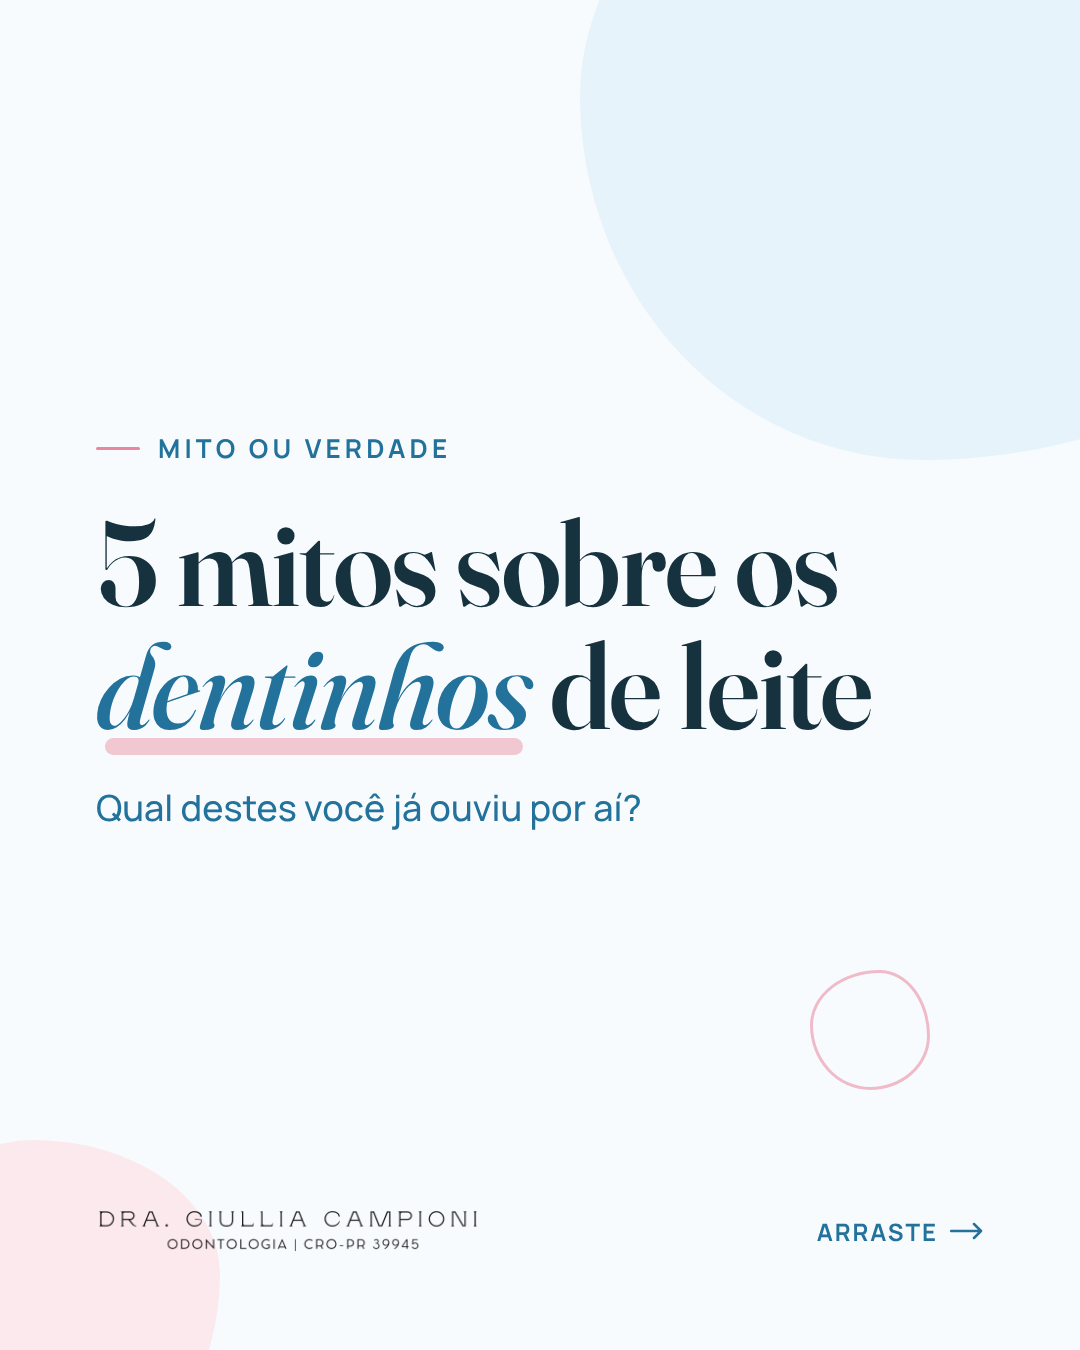
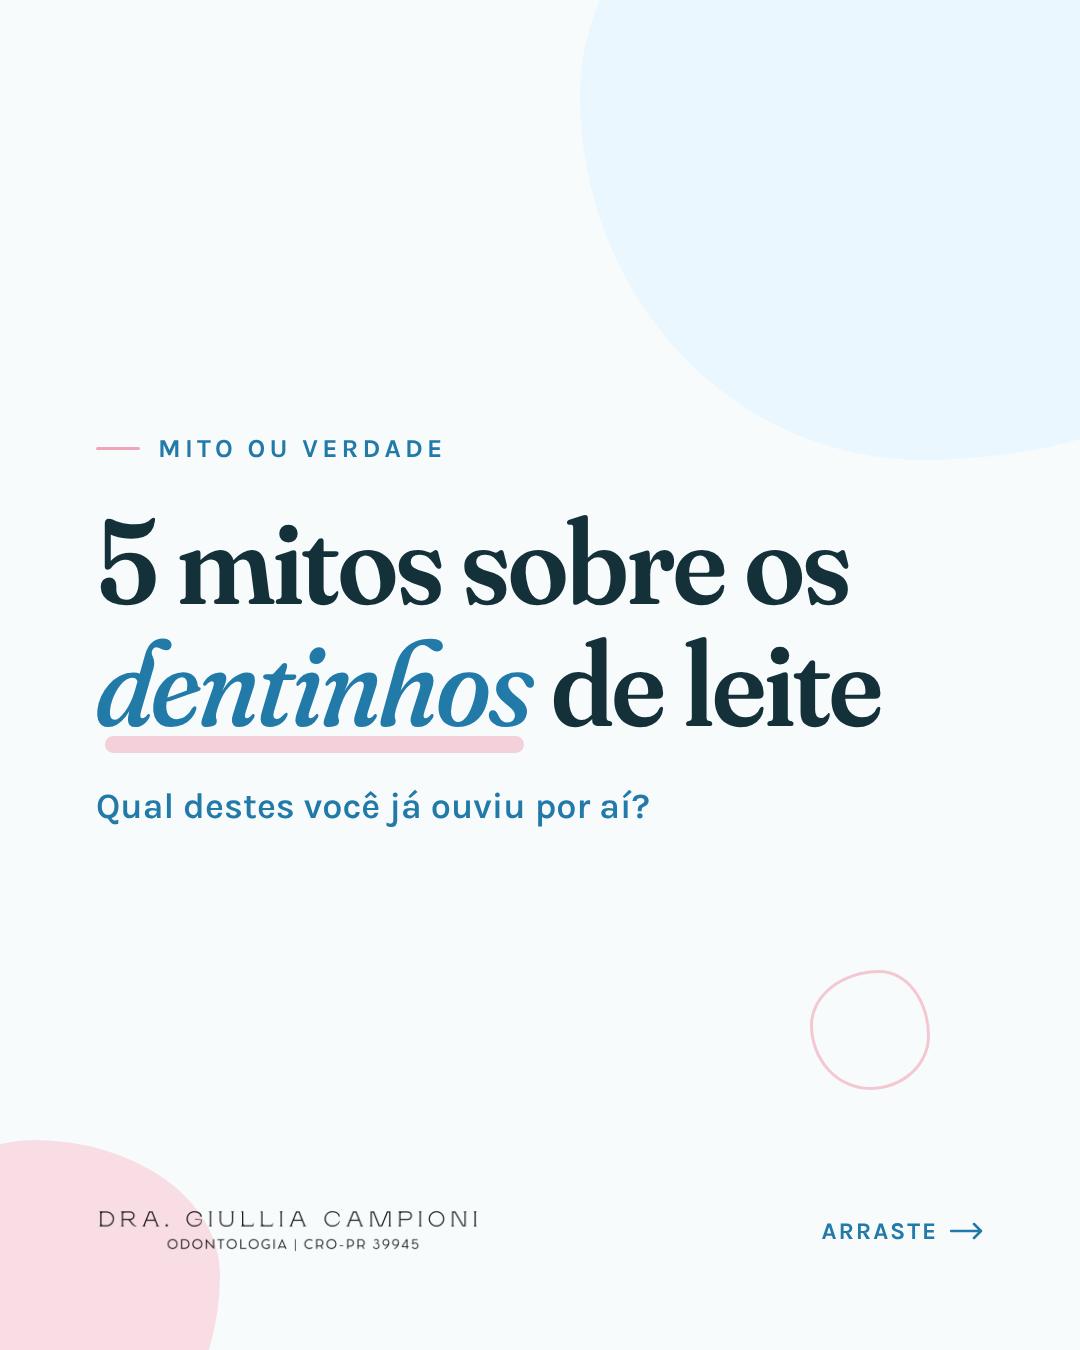
conteudo-dra-giullia: tokens reais do site, slides com foto e novo slide de mito
- Cores e fontes (Fraunces SOFT/WONK + Karla) copiadas do site da cliente
- Capa com foto sangrada e slide de texto com foto no topo (fotos do site)
- Slide de mito redesenhado como pergunta e resposta, sem selos
- Segundo carrossel de exemplo: como é a primeira consulta
- Links para a Ficha da Giullia (editável) e o Design System

Claude-Session: https://claude.ai/code/session_01RQxChRq7sBinPeM7u1aJuL

diff --git a/apps/conteudo-dra-giullia/templates/estilo.css b/apps/conteudo-dra-giullia/templates/estilo.css
@@ -1,17 +1,29 @@
-/* Identidade visual da Dra. Giullia Campioni. Fonte: marca/05-identidade-visual.md
+/* Identidade visual da Dra. Giullia Campioni.
+   Tokens copiados do site dragiucampioni.com.br (fonte da verdade). Ver marca/05-identidade-visual.md
    Cores e fontes mudam SÓ aqui. */
 :root{
-  --tinta:#16323F; --petroleo:#22729C; --ceu:#E7F3FA; --gelo:#F8FBFD;
-  --rosa:#E8879E; --rosa-claro:#FBE9EE;
-  --amarelo:#F7E3A1; --verde:#CFE6D3; --laranja:#F6C9A8; --lilas:#DCD3F0;
+  --tinta:#14313A;      /* site --ink */
+  --texto-cor:#284956;  /* site --text */
+  --suave:#4F6D79;      /* site --muted */
+  --petroleo:#227AA8;   /* site --teal-dark / CTA */
+  --azul:#3BAFE0;       /* site --teal */
+  --ceu:#EAF7FF;        /* site --mint */
+  --ceu-forte:#B8DFF5;  /* site --mint-strong */
+  --linha:#CBE8F7;      /* site --line */
+  --papel:#F8FBFC;      /* site --paper */
+  --rosa:#F0A6B8;       /* site --rose */
+  --rosa-claro:#F8DDE4; /* site --rose-soft */
+  --rosa-forte:#E77496;
+  --vinho:#8A3A55;
+  --mel:#FFD56E;        /* site --honey */
   --titulo:"Fraunces", Georgia, serif;
-  --texto:"Manrope", "Helvetica Neue", Arial, sans-serif;
+  --texto:"Karla", "Helvetica Neue", Arial, sans-serif;
   --pad:96px;
 }
 *{box-sizing:border-box;margin:0;padding:0}
-body{background:#ccc;font-family:var(--texto);color:var(--tinta)}
+body{background:#ccc;font-family:var(--texto);color:var(--texto-cor)}
 
-.slide{position:relative;width:1080px;height:1350px;overflow:hidden;background:var(--gelo);display:flex;flex-direction:column;padding:var(--pad)}
+.slide{position:relative;width:1080px;height:1350px;overflow:hidden;background:var(--papel);display:flex;flex-direction:column;padding:var(--pad)}
 .slide.stories{height:1920px;padding-top:250px;padding-bottom:250px}
 .slide + .slide{margin-top:40px}
 
@@ -19,7 +31,7 @@ body{background:#ccc;font-family:var(--texto);color:var(--tinta)}
 .blob{position:absolute;z-index:0;pointer-events:none}
 .b1{width:760px;height:700px;right:-260px;top:-240px;background:var(--ceu);border-radius:62% 38% 55% 45% / 48% 60% 40% 52%}
 .b2{width:340px;height:320px;left:-120px;bottom:-110px;background:var(--rosa-claro);border-radius:45% 55% 38% 62% / 55% 42% 58% 45%}
-.b3{width:120px;height:120px;right:150px;bottom:260px;border:3px solid var(--rosa);border-radius:58% 42% 50% 50% / 46% 55% 45% 54%;opacity:.55}
+.b3{width:120px;height:120px;right:150px;bottom:260px;border:3px solid var(--rosa);border-radius:58% 42% 50% 50% / 46% 55% 45% 54%;opacity:.6}
 .alt .b1{right:auto;left:-300px;top:auto;bottom:-300px}
 .alt .b2{left:auto;right:-110px;bottom:auto;top:-120px;background:var(--ceu)}
 .alt .b3{right:120px;bottom:auto;top:120px}
@@ -29,30 +41,53 @@ body{background:#ccc;font-family:var(--texto);color:var(--tinta)}
 .sobretitulo{display:flex;align-items:center;gap:18px;font-size:26px;font-weight:700;letter-spacing:.16em;text-transform:uppercase;color:var(--petroleo)}
 .sobretitulo::before{content:"";width:44px;height:3px;background:var(--rosa);border-radius:2px}
 
-h1,h2{font-family:var(--titulo);font-weight:600;color:var(--tinta);letter-spacing:-.01em}
+h1,h2,.afirmacao,.resposta{font-family:var(--titulo);font-variation-settings:"SOFT" 65,"WONK" 1}
+h1,h2{font-weight:600;color:var(--tinta);letter-spacing:-.01em}
 h1{font-size:120px;line-height:1.02}
-h2{font-size:74px;line-height:1.08}
+h2{font-size:76px;line-height:1.08}
 em{font-style:italic;color:var(--petroleo);font-weight:500;position:relative;white-space:nowrap}
-em::after{content:"";position:absolute;left:2%;right:2%;bottom:.04em;height:.14em;background:var(--rosa);opacity:.45;border-radius:99px;z-index:-1}
-p.texto{font-size:42px;line-height:1.45;color:var(--tinta);max-width:860px}
-p.sub{font-size:36px;line-height:1.4;color:var(--petroleo);font-weight:500}
+em::after{content:"";position:absolute;left:2%;right:2%;bottom:.04em;height:.14em;background:var(--rosa);opacity:.5;border-radius:99px;z-index:-1}
+p.texto{font-size:42px;line-height:1.45;color:var(--texto-cor);max-width:860px}
+p.sub{font-size:36px;line-height:1.4;color:var(--petroleo);font-weight:600}
 
 .pill{align-self:flex-start;display:inline-flex;align-items:center;gap:14px;font-size:30px;font-weight:700;border-radius:999px;padding:18px 34px;background:var(--petroleo);color:#fff}
 
 /* capa */
 .capa h1{max-width:900px}
-.capa .foto{position:relative;z-index:1;width:100%;height:560px;border-radius:48% 52% 40% 60% / 30% 34% 66% 70%;overflow:hidden;margin-bottom:8px}
-.capa .foto img{width:100%;height:100%;object-fit:cover}
-.capa.com-foto h1{font-size:92px}
 
-/* mito ou verdade */
-.veredito{align-self:flex-start;font-size:40px;font-weight:800;letter-spacing:.14em;text-transform:uppercase;padding:16px 40px;border-radius:999px}
-.v-mito{background:var(--rosa-claro);color:#B2445F;border:3px solid var(--rosa)}
-.v-verdade{background:var(--verde);color:#2E6B45;border:3px solid #8FC29C}
-.v-depende{background:var(--amarelo);color:#7A5B12;border:3px solid #E6C866}
-.afirmacao{font-family:var(--titulo);font-size:72px;line-height:1.14;font-weight:500;color:var(--tinta)}
+/* capa com foto: foto sangrada, título branco sobre degradê */
+.capa.com-foto{padding:0}
+.capa.com-foto .foto-fundo{position:absolute;inset:0;z-index:0}
+.capa.com-foto .foto-fundo img{width:100%;height:100%;object-fit:cover}
+.capa.com-foto .foto-fundo::after{content:"";position:absolute;inset:0;background:linear-gradient(180deg,rgba(20,49,58,0) 35%,rgba(20,49,58,.55) 62%,rgba(20,49,58,.92) 100%)}
+.capa.com-foto .blob{display:none}
+.capa.com-foto .conteudo{justify-content:flex-end;padding:var(--pad) var(--pad) 0;gap:28px}
+.capa.com-foto h1{color:#fff;font-size:104px}
+.capa.com-foto em{color:var(--rosa-claro)}
+.capa.com-foto .sobretitulo{color:#fff}
+.capa.com-foto p.sub{color:var(--ceu-forte)}
+.capa.com-foto .rodape{padding:40px var(--pad) var(--pad)}
+.capa.com-foto .arraste{color:#fff}
+
+/* texto com foto: foto no topo com borda orgânica */
+.texto.com-foto{padding-top:0}
+.texto.com-foto .foto-topo{position:relative;z-index:1;margin:0 calc(-1 * var(--pad));height:620px;border-radius:0 0 46% 54% / 0 0 18% 14%;overflow:hidden;flex:none}
+.texto.com-foto .foto-topo img{width:100%;height:100%;object-fit:cover}
+.texto.com-foto .conteudo{justify-content:flex-start;padding-top:64px;gap:28px}
+.texto.com-foto h2{font-size:68px}
+.texto.com-foto p.texto{font-size:38px}
+.texto.com-foto .b1{display:none}
+
+/* mito ou verdade: pergunta e resposta, como numa entrevista */
+.mito .conteudo{gap:30px}
+.afirmacao{font-size:76px;line-height:1.1;font-weight:500;color:var(--tinta)}
 .afirmacao::before{content:"“";color:var(--rosa)} .afirmacao::after{content:"”";color:var(--rosa)}
-.mito p.texto{border-left:4px solid var(--ceu);padding-left:32px}
+.resposta{display:flex;align-items:baseline;gap:28px;padding-top:34px;border-top:2px solid var(--linha)}
+.resposta small{font-family:var(--texto);font-size:24px;font-weight:700;letter-spacing:.16em;text-transform:uppercase;color:var(--suave);font-variation-settings:normal}
+.resposta strong{font-size:96px;font-style:italic;font-weight:500;line-height:1;color:var(--vinho)}
+.resposta.r-verdade strong{color:var(--petroleo)}
+.resposta.r-depende strong{color:var(--petroleo)}
+.mito p.texto{font-size:40px}
 
 /* lista */
 ul.itens{list-style:none;display:grid;gap:26px}
@@ -61,7 +96,7 @@ ul.itens li::before{content:"";flex:none;width:22px;height:22px;margin-top:.45em
 
 /* final */
 .final{background:var(--petroleo)}
-.final .b1{background:rgba(255,255,255,.08)} .final .b2{background:rgba(232,135,158,.28)} .final .b3{border-color:#fff;opacity:.3}
+.final .b1{background:rgba(255,255,255,.08)} .final .b2{background:rgba(240,166,184,.3)} .final .b3{border-color:#fff;opacity:.3}
 .final h2,.final p.texto{color:#fff}
 .final em{color:var(--rosa-claro)}
 .final .sobretitulo{color:var(--rosa-claro)}

diff --git a/apps/conteudo-dra-giullia/templates/slides.js b/apps/conteudo-dra-giullia/templates/slides.js
@@ -8,8 +8,8 @@ const rich = (s) => esc(s).replace(/\*([^*]+)\*/g, "<em>$1</em>");
 const blobs = `<div class="blob b1"></div><div class="blob b2"></div><div class="blob b3"></div>`;
 const sobre = (s) => (s ? `<div class="sobretitulo">${esc(s)}</div>` : "");
 
-function rodape({ i, total, final, assets, capa }) {
-  const logo = final ? assets.logoBranco : assets.logoPreto;
+function rodape({ i, total, final, assets, capa, escuro }) {
+  const logo = final || escuro ? assets.logoBranco : assets.logoPreto;
   const direita = capa && total > 1
     ? `<span class="arraste">Arraste <svg width="34" height="18" viewBox="0 0 34 18" fill="none"><path d="M1 9h30m0 0-7-7m7 7-7 7" stroke="currentColor" stroke-width="2.5" stroke-linecap="round" stroke-linejoin="round"/></svg></span>`
     : total > 1 ? `<span class="contador">${String(i + 1).padStart(2, "0")}/${String(total).padStart(2, "0")}</span>` : "";
@@ -18,14 +18,15 @@ function rodape({ i, total, final, assets, capa }) {
 
 const corpo = {
   capa: (s, ctx) => `
-    ${s.foto ? `<div class="foto"><img src="${ctx.foto(s.foto)}" alt=""></div>` : ""}
+    ${s.foto ? `<div class="foto-fundo"><img src="${ctx.foto(s.foto)}" alt=""></div>` : ""}
     <div class="conteudo">${sobre(s.sobretitulo)}<h1>${rich(s.titulo)}</h1>${s.subtitulo ? `<p class="sub">${esc(s.subtitulo)}</p>` : ""}</div>`,
   mito: (s) => {
     const v = String(s.veredito || "Mito");
-    const cls = /verdade/i.test(v) ? "v-verdade" : /depende/i.test(v) ? "v-depende" : "v-mito";
-    return `<div class="conteudo">${sobre(s.sobretitulo)}<div class="afirmacao">${esc(s.afirmacao)}</div><div class="veredito ${cls}">${esc(v)}</div><p class="texto">${rich(s.explicacao)}</p></div>`;
+    const cls = /verdade/i.test(v) ? "r-verdade" : /depende/i.test(v) ? "r-depende" : "r-mito";
+    const palavra = /verdade/i.test(v) ? "Verdade." : /depende/i.test(v) ? "Depende." : "É mito.";
+    return `<div class="conteudo">${sobre(s.sobretitulo)}<div class="afirmacao">${esc(s.afirmacao)}</div><div class="resposta ${cls}"><small>A resposta</small><strong>${palavra}</strong></div><p class="texto">${rich(s.explicacao)}</p></div>`;
   },
-  texto: (s) => `<div class="conteudo">${sobre(s.sobretitulo)}<h2>${rich(s.titulo)}</h2><p class="texto">${rich(s.texto)}</p></div>`,
+  texto: (s, ctx) => `${s.foto ? `<div class="foto-topo"><img src="${ctx.foto(s.foto)}" alt=""></div>` : ""}<div class="conteudo">${sobre(s.sobretitulo)}<h2>${rich(s.titulo)}</h2><p class="texto">${rich(s.texto)}</p></div>`,
   lista: (s) => `<div class="conteudo">${sobre(s.sobretitulo)}<h2>${rich(s.titulo)}</h2><ul class="itens">${(s.itens || []).map((t) => `<li>${rich(t)}</li>`).join("")}</ul></div>`,
   final: (s) => `<div class="conteudo">${sobre(s.sobretitulo)}<h2>${rich(s.titulo)}</h2>${s.texto ? `<p class="texto">${rich(s.texto)}</p>` : ""}${s.cta ? `<span class="pill">${esc(s.cta)}</span>` : ""}</div>`,
 };
@@ -37,11 +38,11 @@ export function montarDocumento(post, { cssHref, assets, foto }) {
     const tipo = corpo[s.tipo] ? s.tipo : "texto";
     const final = tipo === "final";
     const classes = ["slide", tipo, stories && "stories", i % 2 === 1 && !final && "alt", s.foto && "com-foto"].filter(Boolean).join(" ");
-    return `<section class="${classes}" data-i="${i}">${blobs}${corpo[tipo](s, { foto })}${rodape({ i, total, final, assets, capa: tipo === "capa" })}</section>`;
+    return `<section class="${classes}" data-i="${i}">${blobs}${corpo[tipo](s, { foto })}${rodape({ i, total, final, assets, capa: tipo === "capa", escuro: tipo === "capa" && !!s.foto })}</section>`;
   }).join("\n");
 
   return `<!doctype html><html lang="pt-BR"><head><meta charset="utf-8">
 <link rel="preconnect" href="https://fonts.googleapis.com">
-<link rel="stylesheet" href="https://fonts.googleapis.com/css2?family=Fraunces:ital,opsz,wght@0,9..144,500;0,9..144,600;1,9..144,500&family=Manrope:wght@400;500;700;800&display=block">
+<link rel="stylesheet" href="https://fonts.googleapis.com/css2?family=Fraunces:ital,opsz,wght,SOFT,WONK@0,9..144,400..650,0..100,0..1;1,9..144,400..650,0..100,0..1&family=Karla:wght@400;500;600;700&display=block">
 <link rel="stylesheet" href="${cssHref}"></head><body>${html}</body></html>`;
 }

diff --git a/apps/conteudo-dra-giullia/scripts/render.js b/apps/conteudo-dra-giullia/scripts/render.js
@@ -42,8 +42,8 @@ const page = await browser.newPage({ viewport: { width: 1200, height: 1400 }, de
 await page.goto(url(htmlPath), { waitUntil: "networkidle" });
 await page.evaluate(() => document.fonts.ready);
 
-const faltaFonte = await page.evaluate(() => !document.fonts.check('600 40px "Fraunces"') || !document.fonts.check('400 40px "Manrope"'));
-if (faltaFonte) console.warn("Aviso: as fontes Fraunces/Manrope não carregaram (sem internet?). As artes sairiam com fonte substituta.");
+const faltaFonte = await page.evaluate(() => !document.fonts.check('600 40px "Fraunces"') || !document.fonts.check('400 40px "Karla"'));
+if (faltaFonte) console.warn("Aviso: as fontes Fraunces/Karla não carregaram (sem internet?). As artes sairiam com fonte substituta.");
 
 const estouros = await page.$$eval(".slide .conteudo", (els) => els.map((el, i) => (el.scrollHeight > el.clientHeight + 2 ? i + 1 : null)).filter(Boolean));
 

diff --git a/apps/conteudo-dra-giullia/marca/05-identidade-visual.md b/apps/conteudo-dra-giullia/marca/05-identidade-visual.md
@@ -7,29 +7,33 @@
 - Versões recortadas para as artes: `assets/logo-preto-recortado.png` e `assets/logo-branco-recortado.png`
 - Composição: **DRA. GIULLIA CAMPIONI** em caixa alta bem espaçada, com **ODONTOLOGIA | CRO-PR 39945** embaixo. O logo já leva o CRO, o que resolve a exigência de identificação nas artes.
 
-## Paleta
-| Papel | Cor | HEX |
+## Paleta (tokens reais do site dragiucampioni.com.br)
+| Token | Papel | HEX |
 |---|---|---|
-| Texto principal | Azul-tinta | `#16323F` |
-| Primária / destaque | Azul-petróleo | `#22729C` |
-| Fundo claro | Azul-céu | `#E7F3FA` |
-| Fundo neutro | Branco gelo | `#F8FBFD` |
-| Afeto / detalhe | Rosa suave | `#E8879E` |
-| Rosa fundo | Rosa claro | `#FBE9EE` |
+| tinta | Títulos | `#14313A` |
+| texto | Texto corrido | `#284956` |
+| suave | Rótulos e legendas | `#4F6D79` |
+| petroleo | Primária: botões, sobretítulos, destaque, fundo do slide final | `#227AA8` |
+| azul | Detalhes e ícones (não usar em texto) | `#3BAFE0` |
+| ceu / ceu-forte / linha | Manchas, fundos e divisórias | `#EAF7FF` / `#B8DFF5` / `#CBE8F7` |
+| papel | Fundo das artes | `#F8FBFC` |
+| rosa / rosa-claro | Assinatura afetiva (nunca em texto) | `#F0A6B8` / `#F8DDE4` |
+| vinho | Resposta "É mito." | `#8A3A55` |
+| mel | Detalhe de datas comemorativas | `#FFD56E` |
 
-**Complementares (só em detalhes, quando precisar):** amarelo pastel `#F7E3A1` · verde suave `#CFE6D3` · laranja suave `#F6C9A8` · lilás `#DCD3F0`
-
-## Tipografia
-- **Títulos:** serifada elegante (Fraunces, 500 a 600)
-- **Textos:** sem serifa limpa e arredondada (Manrope, 400 a 700)
-- Fontes delicadas e fáceis de ler
+## Tipografia (igual ao site)
+- **Títulos:** Fraunces 500 a 600, com `font-variation-settings: "SOFT" 65, "WONK" 1`. Itálico para a palavra em destaque e para a resposta do mito.
+- **Textos:** Karla 400 a 700
 - **Capa sempre com frase curta**, de no máximo 7 palavras
+
+> Design System completo (tokens, componentes, logos, fotos): https://claude.ai/artifact/Ni4rgZQoPh1m5U4Ss6XEr7
 
 ## Estilo gráfico
 - **Clean**, com bastante respiro
 - Elementos **orgânicos e modernos**: manchas arredondadas (*blobs*), arcos e traços finos, nada geométrico rígido
 - Detalhe de assinatura do site: **traço rosa curto antes do sobretítulo** (— MITO OU VERDADE)
-- Fotos reais dela e do consultório, sempre que possível (fotos de paciente só com termo assinado)
+- Fotos reais dela e do consultório, sempre que possível (fotos de paciente só com termo assinado). As duas fotos do site estão em `assets/fotos/`.
+- Banco de imagens (Unsplash/Pexels) só como último recurso, e nunca com cara de banco
 - Nada de ilustração infantilizada, cartoon ou excesso de emoji na arte
 
 ## Formatos

diff --git a/apps/conteudo-dra-giullia/README.md b/apps/conteudo-dra-giullia/README.md
@@ -7,6 +7,13 @@ Pesquisador de pautas → Copywriter → Revisor CFO → Diretor de arte → apr
    (temas da semana)    (texto + JSON)   (checa ética)    (PNG no template)
 ```
 
+## Páginas
+| Página | Para quê |
+|---|---|
+| [Ficha da Giullia](https://claude.ai/artifact/MCtt9NzFXpgToijNKMhpze) | **Fonte da verdade editável**: fatos e regras (título profissional, formação, atendimentos, limites). Quem tem acesso de edição altera direto; quem não tem copia uma sugestão para o WhatsApp. Antes de gerar conteúdo, a máquina confere a ficha e atualiza `marca/` se algo mudou. |
+| [Design System](https://claude.ai/artifact/Ni4rgZQoPh1m5U4Ss6XEr7) | Cores, fontes, logo, fotos, ícones e os modelos de slide |
+| [Briefing](https://claude.ai/artifact/SUhz5QZDc69kMETwdihcwG) | Formulário respondido pela cliente (nov/2026) |
+
 ## Estrutura
 | Pasta | O que tem |
 |---|---|
@@ -37,7 +44,7 @@ npm run render -- conteudos/2026-12-carrossel-mitos/post.json
 Saída: `conteudos/<pasta>/png/01.png …` (1080×1350, ou 1080×1920 em stories) + `legenda.txt`.
 O script avisa se algum texto não coube no slide ou se as fontes não carregaram.
 
-Tipos de slide disponíveis: `capa` (com ou sem `foto`), `mito` (veredito Mito, Verdade ou Depende), `texto`, `lista`, `final`. Esquema completo em `maquinas/02-copywriter.md`.
+Tipos de slide disponíveis: `capa` (com ou sem `foto`), `mito` (pergunta e resposta: "É mito.", "Verdade." ou "Depende."), `texto` (com ou sem `foto`), `lista`, `final`. Esquema completo em `maquinas/02-copywriter.md`.
 
 ## Fase 2: automação (próximo passo)
 - Pesquisa de pautas agendada toda semana (tarefa agendada no Claude) → pautas caem num quadro do Notion
@@ -45,7 +52,8 @@ Tipos de slide disponíveis: `capa` (com ou sem `foto`), `mito` (veredito Mito, 
 - Futuro: publicação agendada no Instagram via API da Meta
 
 ## Pendências
-- [ ] A Giullia validar o carrossel de exemplo (`conteudos/2026-12-carrossel-mitos`), com atenção às afirmações clínicas
-- [ ] Receber as fotos dela e do consultório → `assets/fotos/`
+- [ ] A Giullia validar os carrosséis de exemplo (`conteudos/2026-12-carrossel-mitos` e `conteudos/2026-12-carrossel-primeira-consulta`), com atenção às afirmações clínicas
+- [ ] Receber mais fotos dela e do consultório → `assets/fotos/` (por enquanto, as 2 do site)
+- [ ] Fotos de banco (Unsplash/Pexels): precisam de uma chave de API ou de baixar manualmente
 - [ ] Analisar os 10 posts de referência que ela enviou (ver `marca/05-identidade-visual.md`)
 - [ ] Templates de stories com enquete e de post único com foto

diff --git a/apps/conteudo-dra-giullia/maquinas/02-copywriter.md b/apps/conteudo-dra-giullia/maquinas/02-copywriter.md
@@ -45,4 +45,7 @@ Você escreve **como a Dra. Giullia Campioni**: acolhedora, didática, leve e pr
 - `formato`: `carrossel` (1080×1350), `post` (1 slide, 1080×1350) ou `stories` (1080×1920; cada slide é um story)
 - Tipos de slide: `capa`, `mito`, `texto`, `lista`, `final`
 - Para destacar uma palavra do título em rosa, use `*palavra*`
-- `foto` (opcional, na capa ou no texto): caminho de uma foto real em `assets/fotos/`
+- `foto` (opcional): caminho de uma foto real em `assets/fotos/`.
+  - Na `capa`: foto sangrada com degradê escuro e título branco (até 6 palavras, para não cobrir o rosto).
+  - No `texto`: foto no topo com borda orgânica. O texto fica com até 25 palavras.
+- Antes de escrever, confira a **Ficha da Giullia** (https://claude.ai/artifact/MCtt9NzFXpgToijNKMhpze). Ela prevalece sobre os arquivos de `marca/` quando houver diferença.
